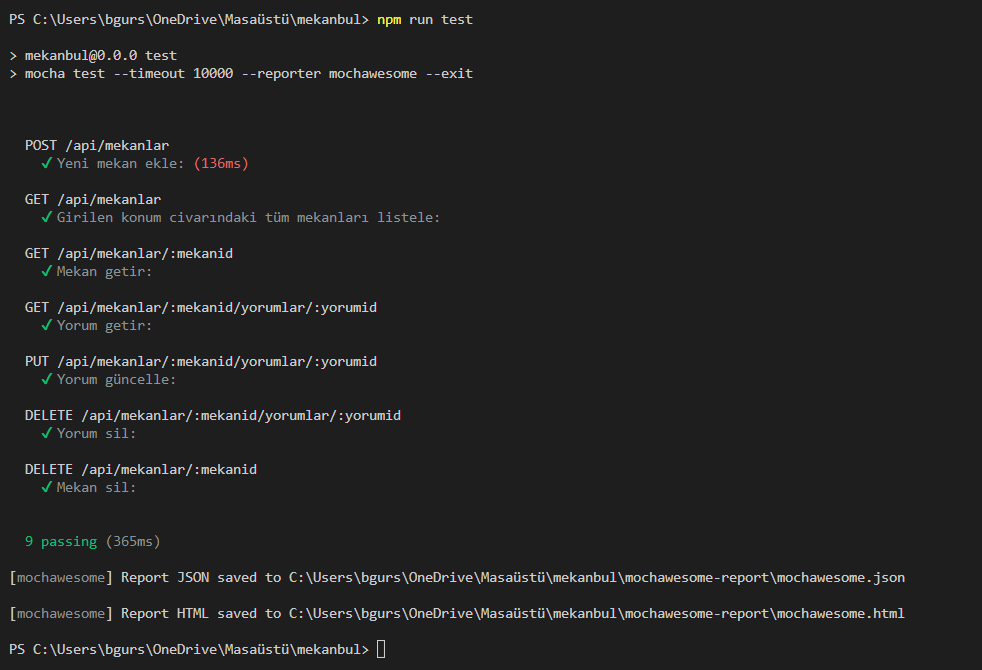
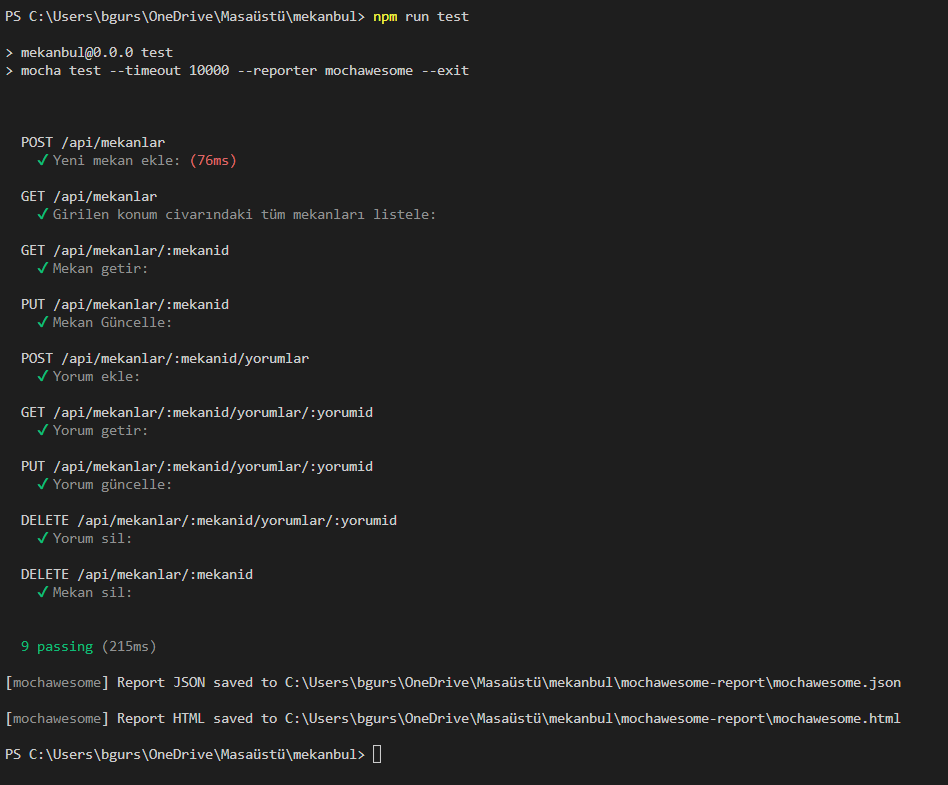
Odev6 upload

diff --git a/mochawesome-report/mochawesome.html b/mochawesome-report/mochawesome.html
@@ -1,2 +1,2 @@
 <!doctype html>
-<html lang="en"><head><meta charSet="utf-8"/><meta http-equiv="X-UA-Compatible" content="IE=edge"/><meta name="viewport" content="width=device-width, initial-scale=1"/><title>Mochawesome Report</title><link rel="stylesheet" href="assets\app.css"/></head><body data-raw="{&quot;stats&quot;:{&quot;suites&quot;:9,&quot;tests&quot;:9,&quot;passes&quot;:9,&quot;pending&quot;:0,&quot;failures&quot;:0,&quot;start&quot;:&quot;2022-11-28T18:46:28.797Z&quot;,&quot;end&quot;:&quot;2022-11-28T18:46:29.162Z&quot;,&quot;duration&quot;:365,&quot;testsRegistered&quot;:9,&quot;passPercent&quot;:100,&quot;pendingPercent&quot;:0,&quot;other&quot;:0,&quot;hasOther&quot;:false,&quot;skipped&quot;:0,&quot;hasSkipped&quot;:false},&quot;results&quot;:[{&quot;uuid&quot;:&quot;9c316d14-0968-40b0-8b06-5e3f54011b4d&quot;,&quot;title&quot;:&quot;&quot;,&quot;fullFile&quot;:&quot;&quot;,&quot;file&quot;:&quot;&quot;,&quot;beforeHooks&quot;:[],&quot;afterHooks&quot;:[{&quot;title&quot;:&quot;\&quot;after all\&quot; hook in \&quot;{root}\&quot;&quot;,&quot;fullTitle&quot;:&quot;\&quot;after all\&quot; hook in \&quot;{root}\&quot;&quot;,&quot;timedOut&quot;:false,&quot;duration&quot;:0,&quot;pass&quot;:false,&quot;fail&quot;:false,&quot;pending&quot;:false,&quot;code&quot;:&quot;done();&quot;,&quot;err&quot;:{},&quot;uuid&quot;:&quot;1f1d864e-ea0e-4a6a-ae7d-3a43d5c8c072&quot;,&quot;parentUUID&quot;:&quot;9c316d14-0968-40b0-8b06-5e3f54011b4d&quot;,&quot;isHook&quot;:true,&quot;skipped&quot;:false}],&quot;tests&quot;:[],&quot;suites&quot;:[{&quot;uuid&quot;:&quot;73669246-7c2a-456f-99f5-73e07eacd1d4&quot;,&quot;title&quot;:&quot;POST /api/mekanlar&quot;,&quot;fullFile&quot;:&quot;C:\\Users\\bgurs\\OneDrive\\Masaüstü\\mekanbul\\test.js&quot;,&quot;file&quot;:&quot;\\test.js&quot;,&quot;beforeHooks&quot;:[],&quot;afterHooks&quot;:[],&quot;tests&quot;:[{&quot;title&quot;:&quot;Yeni mekan ekle:&quot;,&quot;fullTitle&quot;:&quot;POST /api/mekanlar Yeni mekan ekle:&quot;,&quot;timedOut&quot;:false,&quot;duration&quot;:136,&quot;state&quot;:&quot;passed&quot;,&quot;speed&quot;:&quot;slow&quot;,&quot;pass&quot;:true,&quot;fail&quot;:false,&quot;pending&quot;:false,&quot;code&quot;:&quot;const response = await request.post(\&quot;/api/mekanlar\&quot;).send({\n  ad: \&quot;Starbucks\&quot;,\n  adres: \&quot;Centrum Garden\&quot;,\n  puan: 5,\n  imkanlar: \&quot;çay,kahve,pasta\&quot;,\n  enlem: 37.83226584629666,\n  boylam: 30.524732239878013,\n  gunler1: \&quot;Pazartesi-Cuma\&quot;,\n  acilis1: \&quot;9:00\&quot;,\n  kapanis1: \&quot;23:00\&quot;,\n  kapali1: false,\n  gunler2: \&quot;Cumartesi-Pazar\&quot;,\n  acilis2: \&quot;11:00\&quot;,\n  kapanis2: \&quot;17:00\&quot;,\n  kapali2: false,\n});\nexpect(response.status).to.eql(201);\nprocess.env.mekanid = response.body._id;&quot;,&quot;err&quot;:{},&quot;uuid&quot;:&quot;11d24a6d-c239-4131-b84e-98ea9aa9cdfe&quot;,&quot;parentUUID&quot;:&quot;73669246-7c2a-456f-99f5-73e07eacd1d4&quot;,&quot;isHook&quot;:false,&quot;skipped&quot;:false}],&quot;suites&quot;:[],&quot;passes&quot;:[&quot;11d24a6d-c239-4131-b84e-98ea9aa9cdfe&quot;],&quot;failures&quot;:[],&quot;pending&quot;:[],&quot;skipped&quot;:[],&quot;duration&quot;:136,&quot;root&quot;:false,&quot;rootEmpty&quot;:false,&quot;_timeout&quot;:10000},{&quot;uuid&quot;:&quot;b8d7a778-96aa-4b22-9eff-26448bab2182&quot;,&quot;title&quot;:&quot;GET /api/mekanlar&quot;,&quot;fullFile&quot;:&quot;C:\\Users\\bgurs\\OneDrive\\Masaüstü\\mekanbul\\test.js&quot;,&quot;file&quot;:&quot;\\test.js&quot;,&quot;beforeHooks&quot;:[],&quot;afterHooks&quot;:[],&quot;tests&quot;:[{&quot;title&quot;:&quot;Girilen konum civarındaki tüm mekanları listele:&quot;,&quot;fullTitle&quot;:&quot;GET /api/mekanlar Girilen konum civarındaki tüm mekanları listele:&quot;,&quot;timedOut&quot;:false,&quot;duration&quot;:35,&quot;state&quot;:&quot;passed&quot;,&quot;speed&quot;:&quot;fast&quot;,&quot;pass&quot;:true,&quot;fail&quot;:false,&quot;pending&quot;:false,&quot;code&quot;:&quot;const response = await request.get(\&quot;/api/mekanlar?enlem=37&amp;boylam=35\&quot;);\nexpect(response.status).to.eql(200);&quot;,&quot;err&quot;:{},&quot;uuid&quot;:&quot;68129228-0611-4448-ae4b-4060a3d1d1e3&quot;,&quot;parentUUID&quot;:&quot;b8d7a778-96aa-4b22-9eff-26448bab2182&quot;,&quot;isHook&quot;:false,&quot;skipped&quot;:false}],&quot;suites&quot;:[],&quot;passes&quot;:[&quot;68129228-0611-4448-ae4b-4060a3d1d1e3&quot;],&quot;failures&quot;:[],&quot;pending&quot;:[],&quot;skipped&quot;:[],&quot;duration&quot;:35,&quot;root&quot;:false,&quot;rootEmpty&quot;:false,&quot;_timeout&quot;:10000},{&quot;uuid&quot;:&quot;ca60ced1-6ce5-40bc-8d88-7761a235b4c5&quot;,&quot;title&quot;:&quot;GET /api/mekanlar/:mekanid&quot;,&quot;fullFile&quot;:&quot;C:\\Users\\bgurs\\OneDrive\\Masaüstü\\mekanbul\\test.js&quot;,&quot;file&quot;:&quot;\\test.js&quot;,&quot;beforeHooks&quot;:[],&quot;afterHooks&quot;:[],&quot;tests&quot;:[{&quot;title&quot;:&quot;Mekan getir:&quot;,&quot;fullTitle&quot;:&quot;GET /api/mekanlar/:mekanid Mekan getir:&quot;,&quot;timedOut&quot;:false,&quot;duration&quot;:31,&quot;state&quot;:&quot;passed&quot;,&quot;speed&quot;:&quot;fast&quot;,&quot;pass&quot;:true,&quot;fail&quot;:false,&quot;pending&quot;:false,&quot;code&quot;:&quot;const response = await request.get(`/api/mekanlar/${process.env.mekanid}`);\nexpect(response.status).to.eql(200);&quot;,&quot;err&quot;:{},&quot;uuid&quot;:&quot;c84e2849-193d-46e5-b410-8fe94257a74c&quot;,&quot;parentUUID&quot;:&quot;ca60ced1-6ce5-40bc-8d88-7761a235b4c5&quot;,&quot;isHook&quot;:false,&quot;skipped&quot;:false}],&quot;suites&quot;:[],&quot;passes&quot;:[&quot;c84e2849-193d-46e5-b410-8fe94257a74c&quot;],&quot;failures&quot;:[],&quot;pending&quot;:[],&quot;skipped&quot;:[],&quot;duration&quot;:31,&quot;root&quot;:false,&quot;rootEmpty&quot;:false,&quot;_timeout&quot;:10000},{&quot;uuid&quot;:&quot;8b35a9df-3c4d-45de-9cb1-4514f3db93f2&quot;,&quot;title&quot;:&quot;PUT /api/mekanlar/:mekanid&quot;,&quot;fullFile&quot;:&quot;C:\\Users\\bgurs\\OneDrive\\Masaüstü\\mekanbul\\test.js&quot;,&quot;file&quot;:&quot;\\test.js&quot;,&quot;beforeHooks&quot;:[],&quot;afterHooks&quot;:[],&quot;tests&quot;:[{&quot;title&quot;:&quot;Mekan Güncelle:&quot;,&quot;fullTitle&quot;:&quot;PUT /api/mekanlar/:mekanid Mekan Güncelle:&quot;,&quot;timedOut&quot;:false,&quot;duration&quot;:37,&quot;state&quot;:&quot;passed&quot;,&quot;speed&quot;:&quot;fast&quot;,&quot;pass&quot;:true,&quot;fail&quot;:false,&quot;pending&quot;:false,&quot;code&quot;:&quot;const response = await request\n  .put(`/api/mekanlar/${process.env.mekanid}`)\n  .send({\n    ad: \&quot;Starbucks SDÜ\&quot;,\n    adres: \&quot;SDÜ Doğu Kampüsü\&quot;,\n    puan: 3,\n    imkanlar: \&quot;çay,kahve,pasta,refresher\&quot;,\n    enlem: 37.8,\n    boylam: 30.5,\n    gunler1: \&quot;Pazartesi-Cuma\&quot;,\n    acilis1: \&quot;9:10\&quot;,\n    kapanis1: \&quot;23:10\&quot;,\n    kapali1: true,\n    gunler2: \&quot;Cumartesi-Pazar\&quot;,\n    acilis2: \&quot;11:10\&quot;,\n    kapanis2: \&quot;17:10\&quot;,\n    kapali2: true,\n  });\nexpect(response.status).to.eql(200);&quot;,&quot;err&quot;:{},&quot;uuid&quot;:&quot;efe636c2-c523-4474-a659-342e63d0709d&quot;,&quot;parentUUID&quot;:&quot;8b35a9df-3c4d-45de-9cb1-4514f3db93f2&quot;,&quot;isHook&quot;:false,&quot;skipped&quot;:false}],&quot;suites&quot;:[],&quot;passes&quot;:[&quot;efe636c2-c523-4474-a659-342e63d0709d&quot;],&quot;failures&quot;:[],&quot;pending&quot;:[],&quot;skipped&quot;:[],&quot;duration&quot;:37,&quot;root&quot;:false,&quot;rootEmpty&quot;:false,&quot;_timeout&quot;:10000},{&quot;uuid&quot;:&quot;15308f13-2b12-44a1-be45-ca8c62091ae8&quot;,&quot;title&quot;:&quot;POST /api/mekanlar/:mekanid/yorumlar&quot;,&quot;fullFile&quot;:&quot;C:\\Users\\bgurs\\OneDrive\\Masaüstü\\mekanbul\\test.js&quot;,&quot;file&quot;:&quot;\\test.js&quot;,&quot;beforeHooks&quot;:[],&quot;afterHooks&quot;:[],&quot;tests&quot;:[{&quot;title&quot;:&quot;Yorum ekle:&quot;,&quot;fullTitle&quot;:&quot;POST /api/mekanlar/:mekanid/yorumlar Yorum ekle:&quot;,&quot;timedOut&quot;:false,&quot;duration&quot;:19,&quot;state&quot;:&quot;passed&quot;,&quot;speed&quot;:&quot;fast&quot;,&quot;pass&quot;:true,&quot;fail&quot;:false,&quot;pending&quot;:false,&quot;code&quot;:&quot;const response = await request\n  .post(`/api/mekanlar/${process.env.mekanid}/yorumlar`)\n  .send({\n    yorumYapan: \&quot;ASY\&quot;,\n    puan: 5,\n    yorumMetni: \&quot;Kahveler harika\&quot;,\n  });\nprocess.env.yorumid = response.body._id;\nexpect(response.status).to.eql(201);&quot;,&quot;err&quot;:{},&quot;uuid&quot;:&quot;f4b21e41-cd90-4620-ac99-ab586474c3cd&quot;,&quot;parentUUID&quot;:&quot;15308f13-2b12-44a1-be45-ca8c62091ae8&quot;,&quot;isHook&quot;:false,&quot;skipped&quot;:false}],&quot;suites&quot;:[],&quot;passes&quot;:[&quot;f4b21e41-cd90-4620-ac99-ab586474c3cd&quot;],&quot;failures&quot;:[],&quot;pending&quot;:[],&quot;skipped&quot;:[],&quot;duration&quot;:19,&quot;root&quot;:false,&quot;rootEmpty&quot;:false,&quot;_timeout&quot;:10000},{&quot;uuid&quot;:&quot;fdc0cab8-bec9-43ce-90d7-ab014f3cffba&quot;,&quot;title&quot;:&quot;GET /api/mekanlar/:mekanid/yorumlar/:yorumid&quot;,&quot;fullFile&quot;:&quot;C:\\Users\\bgurs\\OneDrive\\Masaüstü\\mekanbul\\test.js&quot;,&quot;file&quot;:&quot;\\test.js&quot;,&quot;beforeHooks&quot;:[],&quot;afterHooks&quot;:[],&quot;tests&quot;:[{&quot;title&quot;:&quot;Yorum getir:&quot;,&quot;fullTitle&quot;:&quot;GET /api/mekanlar/:mekanid/yorumlar/:yorumid Yorum getir:&quot;,&quot;timedOut&quot;:false,&quot;duration&quot;:20,&quot;state&quot;:&quot;passed&quot;,&quot;speed&quot;:&quot;fast&quot;,&quot;pass&quot;:true,&quot;fail&quot;:false,&quot;pending&quot;:false,&quot;code&quot;:&quot;const response = await request.get(\n  `/api/mekanlar/${process.env.mekanid}/yorumlar/${process.env.yorumid}`\n);\nexpect(response.status).to.eql(200);&quot;,&quot;err&quot;:{},&quot;uuid&quot;:&quot;0baf081c-6efc-4a0b-bea8-a3ff35ae5dcc&quot;,&quot;parentUUID&quot;:&quot;fdc0cab8-bec9-43ce-90d7-ab014f3cffba&quot;,&quot;isHook&quot;:false,&quot;skipped&quot;:false}],&quot;suites&quot;:[],&quot;passes&quot;:[&quot;0baf081c-6efc-4a0b-bea8-a3ff35ae5dcc&quot;],&quot;failures&quot;:[],&quot;pending&quot;:[],&quot;skipped&quot;:[],&quot;duration&quot;:20,&quot;root&quot;:false,&quot;rootEmpty&quot;:false,&quot;_timeout&quot;:10000},{&quot;uuid&quot;:&quot;3816192d-4ae2-4bdf-ad80-677d169ec73c&quot;,&quot;title&quot;:&quot;PUT /api/mekanlar/:mekanid/yorumlar/:yorumid&quot;,&quot;fullFile&quot;:&quot;C:\\Users\\bgurs\\OneDrive\\Masaüstü\\mekanbul\\test.js&quot;,&quot;file&quot;:&quot;\\test.js&quot;,&quot;beforeHooks&quot;:[],&quot;afterHooks&quot;:[],&quot;tests&quot;:[{&quot;title&quot;:&quot;Yorum güncelle:&quot;,&quot;fullTitle&quot;:&quot;PUT /api/mekanlar/:mekanid/yorumlar/:yorumid Yorum güncelle:&quot;,&quot;timedOut&quot;:false,&quot;duration&quot;:19,&quot;state&quot;:&quot;passed&quot;,&quot;speed&quot;:&quot;fast&quot;,&quot;pass&quot;:true,&quot;fail&quot;:false,&quot;pending&quot;:false,&quot;code&quot;:&quot;const response = await request\n  .put(\n    `/api/mekanlar/${process.env.mekanid}/yorumlar/${process.env.yorumid}`\n  )\n  .send({\n    yorumYapan: \&quot;Sinan\&quot;,\n    puan: 4,\n    yorumMetni: \&quot;Kahveler harikaaaa\&quot;,\n  });\nexpect(response.status).to.eql(200);&quot;,&quot;err&quot;:{},&quot;uuid&quot;:&quot;271ec898-20fb-4421-955a-0cf1324a9a1f&quot;,&quot;parentUUID&quot;:&quot;3816192d-4ae2-4bdf-ad80-677d169ec73c&quot;,&quot;isHook&quot;:false,&quot;skipped&quot;:false}],&quot;suites&quot;:[],&quot;passes&quot;:[&quot;271ec898-20fb-4421-955a-0cf1324a9a1f&quot;],&quot;failures&quot;:[],&quot;pending&quot;:[],&quot;skipped&quot;:[],&quot;duration&quot;:19,&quot;root&quot;:false,&quot;rootEmpty&quot;:false,&quot;_timeout&quot;:10000},{&quot;uuid&quot;:&quot;13382637-e755-461f-a707-1d96f67761e6&quot;,&quot;title&quot;:&quot;DELETE /api/mekanlar/:mekanid/yorumlar/:yorumid&quot;,&quot;fullFile&quot;:&quot;C:\\Users\\bgurs\\OneDrive\\Masaüstü\\mekanbul\\test.js&quot;,&quot;file&quot;:&quot;\\test.js&quot;,&quot;beforeHooks&quot;:[],&quot;afterHooks&quot;:[],&quot;tests&quot;:[{&quot;title&quot;:&quot;Yorum sil:&quot;,&quot;fullTitle&quot;:&quot;DELETE /api/mekanlar/:mekanid/yorumlar/:yorumid Yorum sil:&quot;,&quot;timedOut&quot;:false,&quot;duration&quot;:16,&quot;state&quot;:&quot;passed&quot;,&quot;speed&quot;:&quot;fast&quot;,&quot;pass&quot;:true,&quot;fail&quot;:false,&quot;pending&quot;:false,&quot;code&quot;:&quot;const response = await request.delete(\n  `/api/mekanlar/${process.env.mekanid}/yorumlar/${process.env.yorumid}`\n);\nexpect(response.status).to.eql(200);&quot;,&quot;err&quot;:{},&quot;uuid&quot;:&quot;7b118976-7255-46ef-abc9-b21374d5283a&quot;,&quot;parentUUID&quot;:&quot;13382637-e755-461f-a707-1d96f67761e6&quot;,&quot;isHook&quot;:false,&quot;skipped&quot;:false}],&quot;suites&quot;:[],&quot;passes&quot;:[&quot;7b118976-7255-46ef-abc9-b21374d5283a&quot;],&quot;failures&quot;:[],&quot;pending&quot;:[],&quot;skipped&quot;:[],&quot;duration&quot;:16,&quot;root&quot;:false,&quot;rootEmpty&quot;:false,&quot;_timeout&quot;:10000},{&quot;uuid&quot;:&quot;ed69de4b-f3dc-4761-a1bd-9b17f5c0dd7d&quot;,&quot;title&quot;:&quot;DELETE /api/mekanlar/:mekanid&quot;,&quot;fullFile&quot;:&quot;C:\\Users\\bgurs\\OneDrive\\Masaüstü\\mekanbul\\test.js&quot;,&quot;file&quot;:&quot;\\test.js&quot;,&quot;beforeHooks&quot;:[],&quot;afterHooks&quot;:[],&quot;tests&quot;:[{&quot;title&quot;:&quot;Mekan sil:&quot;,&quot;fullTitle&quot;:&quot;DELETE /api/mekanlar/:mekanid Mekan sil:&quot;,&quot;timedOut&quot;:false,&quot;duration&quot;:14,&quot;state&quot;:&quot;passed&quot;,&quot;speed&quot;:&quot;fast&quot;,&quot;pass&quot;:true,&quot;fail&quot;:false,&quot;pending&quot;:false,&quot;code&quot;:&quot;const response = await request.delete(\n  `/api/mekanlar/${process.env.mekanid}`\n);\nexpect(response.status).to.eql(200);&quot;,&quot;err&quot;:{},&quot;uuid&quot;:&quot;26c40de3-7f43-492b-8e83-6dda8458ba7f&quot;,&quot;parentUUID&quot;:&quot;ed69de4b-f3dc-4761-a1bd-9b17f5c0dd7d&quot;,&quot;isHook&quot;:false,&quot;skipped&quot;:false}],&quot;suites&quot;:[],&quot;passes&quot;:[&quot;26c40de3-7f43-492b-8e83-6dda8458ba7f&quot;],&quot;failures&quot;:[],&quot;pending&quot;:[],&quot;skipped&quot;:[],&quot;duration&quot;:14,&quot;root&quot;:false,&quot;rootEmpty&quot;:false,&quot;_timeout&quot;:10000}],&quot;passes&quot;:[],&quot;failures&quot;:[],&quot;pending&quot;:[],&quot;skipped&quot;:[],&quot;duration&quot;:0,&quot;root&quot;:true,&quot;rootEmpty&quot;:true,&quot;_timeout&quot;:10000}],&quot;meta&quot;:{&quot;mocha&quot;:{&quot;version&quot;:&quot;10.1.0&quot;},&quot;mochawesome&quot;:{&quot;options&quot;:{&quot;quiet&quot;:false,&quot;reportFilename&quot;:&quot;mochawesome&quot;,&quot;saveHtml&quot;:true,&quot;saveJson&quot;:true,&quot;consoleReporter&quot;:&quot;spec&quot;,&quot;useInlineDiffs&quot;:false,&quot;code&quot;:true},&quot;version&quot;:&quot;7.1.3&quot;},&quot;marge&quot;:{&quot;version&quot;:&quot;6.2.0&quot;}}}" data-config="{&quot;reportFilename&quot;:&quot;mochawesome&quot;,&quot;reportDir&quot;:&quot;mochawesome-report&quot;,&quot;reportTitle&quot;:&quot;mekanbul&quot;,&quot;reportPageTitle&quot;:&quot;Mochawesome Report&quot;,&quot;inline&quot;:false,&quot;inlineAssets&quot;:false,&quot;cdn&quot;:false,&quot;charts&quot;:false,&quot;enableCharts&quot;:false,&quot;code&quot;:true,&quot;enableCode&quot;:true,&quot;autoOpen&quot;:false,&quot;overwrite&quot;:true,&quot;timestamp&quot;:false,&quot;ts&quot;:false,&quot;showPassed&quot;:true,&quot;showFailed&quot;:true,&quot;showPending&quot;:true,&quot;showSkipped&quot;:false,&quot;showHooks&quot;:&quot;failed&quot;,&quot;saveJson&quot;:true,&quot;saveHtml&quot;:true,&quot;dev&quot;:false,&quot;assetsDir&quot;:&quot;mochawesome-report\\assets&quot;,&quot;jsonFile&quot;:&quot;C:\\Users\\bgurs\\OneDrive\\Masaüstü\\mekanbul\\mochawesome-report\\mochawesome.json&quot;,&quot;htmlFile&quot;:&quot;C:\\Users\\bgurs\\OneDrive\\Masaüstü\\mekanbul\\mochawesome-report\\mochawesome.html&quot;}"><div id="report"></div><script src="assets\app.js"></script></body></html>
+<html lang="en"><head><meta charSet="utf-8"/><meta http-equiv="X-UA-Compatible" content="IE=edge"/><meta name="viewport" content="width=device-width, initial-scale=1"/><title>Mochawesome Report</title><link rel="stylesheet" href="assets\app.css"/></head><body data-raw="{&quot;stats&quot;:{&quot;suites&quot;:9,&quot;tests&quot;:9,&quot;passes&quot;:9,&quot;pending&quot;:0,&quot;failures&quot;:0,&quot;start&quot;:&quot;2022-11-28T19:14:38.872Z&quot;,&quot;end&quot;:&quot;2022-11-28T19:14:39.087Z&quot;,&quot;duration&quot;:215,&quot;testsRegistered&quot;:9,&quot;passPercent&quot;:100,&quot;pendingPercent&quot;:0,&quot;other&quot;:0,&quot;hasOther&quot;:false,&quot;skipped&quot;:0,&quot;hasSkipped&quot;:false},&quot;results&quot;:[{&quot;uuid&quot;:&quot;dcd55b17-9260-44e6-b24d-af8d7d4f350b&quot;,&quot;title&quot;:&quot;&quot;,&quot;fullFile&quot;:&quot;&quot;,&quot;file&quot;:&quot;&quot;,&quot;beforeHooks&quot;:[],&quot;afterHooks&quot;:[{&quot;title&quot;:&quot;\&quot;after all\&quot; hook in \&quot;{root}\&quot;&quot;,&quot;fullTitle&quot;:&quot;\&quot;after all\&quot; hook in \&quot;{root}\&quot;&quot;,&quot;timedOut&quot;:false,&quot;duration&quot;:2,&quot;pass&quot;:false,&quot;fail&quot;:false,&quot;pending&quot;:false,&quot;code&quot;:&quot;done();&quot;,&quot;err&quot;:{},&quot;uuid&quot;:&quot;8f8edbc6-d1a5-4759-86e1-053af72ca48c&quot;,&quot;parentUUID&quot;:&quot;dcd55b17-9260-44e6-b24d-af8d7d4f350b&quot;,&quot;isHook&quot;:true,&quot;skipped&quot;:false}],&quot;tests&quot;:[],&quot;suites&quot;:[{&quot;uuid&quot;:&quot;1808e50b-9a80-4bac-ab30-2b99ced07c2b&quot;,&quot;title&quot;:&quot;POST /api/mekanlar&quot;,&quot;fullFile&quot;:&quot;C:\\Users\\bgurs\\OneDrive\\Masaüstü\\mekanbul\\test.js&quot;,&quot;file&quot;:&quot;\\test.js&quot;,&quot;beforeHooks&quot;:[],&quot;afterHooks&quot;:[],&quot;tests&quot;:[{&quot;title&quot;:&quot;Yeni mekan ekle:&quot;,&quot;fullTitle&quot;:&quot;POST /api/mekanlar Yeni mekan ekle:&quot;,&quot;timedOut&quot;:false,&quot;duration&quot;:76,&quot;state&quot;:&quot;passed&quot;,&quot;speed&quot;:&quot;slow&quot;,&quot;pass&quot;:true,&quot;fail&quot;:false,&quot;pending&quot;:false,&quot;code&quot;:&quot;const response = await request.post(\&quot;/api/mekanlar\&quot;).send({\n  ad: \&quot;Starbucks\&quot;,\n  adres: \&quot;Centrum Garden\&quot;,\n  puan: 5,\n  imkanlar: \&quot;çay,kahve,pasta\&quot;,\n  enlem: 37.83226584629666,\n  boylam: 30.524732239878013,\n  gunler1: \&quot;Pazartesi-Cuma\&quot;,\n  acilis1: \&quot;9:00\&quot;,\n  kapanis1: \&quot;23:00\&quot;,\n  kapali1: false,\n  gunler2: \&quot;Cumartesi-Pazar\&quot;,\n  acilis2: \&quot;11:00\&quot;,\n  kapanis2: \&quot;17:00\&quot;,\n  kapali2: false,\n});\nexpect(response.status).to.eql(201);\nprocess.env.mekanid = response.body._id;&quot;,&quot;err&quot;:{},&quot;uuid&quot;:&quot;f4a91fcb-6753-44be-a301-68c79668a3d7&quot;,&quot;parentUUID&quot;:&quot;1808e50b-9a80-4bac-ab30-2b99ced07c2b&quot;,&quot;isHook&quot;:false,&quot;skipped&quot;:false}],&quot;suites&quot;:[],&quot;passes&quot;:[&quot;f4a91fcb-6753-44be-a301-68c79668a3d7&quot;],&quot;failures&quot;:[],&quot;pending&quot;:[],&quot;skipped&quot;:[],&quot;duration&quot;:76,&quot;root&quot;:false,&quot;rootEmpty&quot;:false,&quot;_timeout&quot;:10000},{&quot;uuid&quot;:&quot;fdbf2aff-83ab-45a2-92df-b209ef80b4a3&quot;,&quot;title&quot;:&quot;GET /api/mekanlar&quot;,&quot;fullFile&quot;:&quot;C:\\Users\\bgurs\\OneDrive\\Masaüstü\\mekanbul\\test.js&quot;,&quot;file&quot;:&quot;\\test.js&quot;,&quot;beforeHooks&quot;:[],&quot;afterHooks&quot;:[],&quot;tests&quot;:[{&quot;title&quot;:&quot;Girilen konum civarındaki tüm mekanları listele:&quot;,&quot;fullTitle&quot;:&quot;GET /api/mekanlar Girilen konum civarındaki tüm mekanları listele:&quot;,&quot;timedOut&quot;:false,&quot;duration&quot;:17,&quot;state&quot;:&quot;passed&quot;,&quot;speed&quot;:&quot;fast&quot;,&quot;pass&quot;:true,&quot;fail&quot;:false,&quot;pending&quot;:false,&quot;code&quot;:&quot;const response = await request.get(\&quot;/api/mekanlar?enlem=37&amp;boylam=35\&quot;);\nexpect(response.status).to.eql(200);&quot;,&quot;err&quot;:{},&quot;uuid&quot;:&quot;562fc627-d233-4b6b-ab57-824b3768c499&quot;,&quot;parentUUID&quot;:&quot;fdbf2aff-83ab-45a2-92df-b209ef80b4a3&quot;,&quot;isHook&quot;:false,&quot;skipped&quot;:false}],&quot;suites&quot;:[],&quot;passes&quot;:[&quot;562fc627-d233-4b6b-ab57-824b3768c499&quot;],&quot;failures&quot;:[],&quot;pending&quot;:[],&quot;skipped&quot;:[],&quot;duration&quot;:17,&quot;root&quot;:false,&quot;rootEmpty&quot;:false,&quot;_timeout&quot;:10000},{&quot;uuid&quot;:&quot;7a00a49d-7655-4995-9214-e078efb89f99&quot;,&quot;title&quot;:&quot;GET /api/mekanlar/:mekanid&quot;,&quot;fullFile&quot;:&quot;C:\\Users\\bgurs\\OneDrive\\Masaüstü\\mekanbul\\test.js&quot;,&quot;file&quot;:&quot;\\test.js&quot;,&quot;beforeHooks&quot;:[],&quot;afterHooks&quot;:[],&quot;tests&quot;:[{&quot;title&quot;:&quot;Mekan getir:&quot;,&quot;fullTitle&quot;:&quot;GET /api/mekanlar/:mekanid Mekan getir:&quot;,&quot;timedOut&quot;:false,&quot;duration&quot;:10,&quot;state&quot;:&quot;passed&quot;,&quot;speed&quot;:&quot;fast&quot;,&quot;pass&quot;:true,&quot;fail&quot;:false,&quot;pending&quot;:false,&quot;code&quot;:&quot;const response = await request.get(`/api/mekanlar/${process.env.mekanid}`);\nexpect(response.status).to.eql(200);&quot;,&quot;err&quot;:{},&quot;uuid&quot;:&quot;9b3245fc-f14d-4019-9415-2d9c3cad8490&quot;,&quot;parentUUID&quot;:&quot;7a00a49d-7655-4995-9214-e078efb89f99&quot;,&quot;isHook&quot;:false,&quot;skipped&quot;:false}],&quot;suites&quot;:[],&quot;passes&quot;:[&quot;9b3245fc-f14d-4019-9415-2d9c3cad8490&quot;],&quot;failures&quot;:[],&quot;pending&quot;:[],&quot;skipped&quot;:[],&quot;duration&quot;:10,&quot;root&quot;:false,&quot;rootEmpty&quot;:false,&quot;_timeout&quot;:10000},{&quot;uuid&quot;:&quot;7e3a2564-d67b-478b-95ec-34f9b62ef067&quot;,&quot;title&quot;:&quot;PUT /api/mekanlar/:mekanid&quot;,&quot;fullFile&quot;:&quot;C:\\Users\\bgurs\\OneDrive\\Masaüstü\\mekanbul\\test.js&quot;,&quot;file&quot;:&quot;\\test.js&quot;,&quot;beforeHooks&quot;:[],&quot;afterHooks&quot;:[],&quot;tests&quot;:[{&quot;title&quot;:&quot;Mekan Güncelle:&quot;,&quot;fullTitle&quot;:&quot;PUT /api/mekanlar/:mekanid Mekan Güncelle:&quot;,&quot;timedOut&quot;:false,&quot;duration&quot;:16,&quot;state&quot;:&quot;passed&quot;,&quot;speed&quot;:&quot;fast&quot;,&quot;pass&quot;:true,&quot;fail&quot;:false,&quot;pending&quot;:false,&quot;code&quot;:&quot;const response = await request\n  .put(`/api/mekanlar/${process.env.mekanid}`)\n  .send({\n    ad: \&quot;Starbucks SDÜ\&quot;,\n    adres: \&quot;SDÜ Doğu Kampüsü\&quot;,\n    puan: 3,\n    imkanlar: \&quot;çay,kahve,pasta,refresher\&quot;,\n    enlem: 37.8,\n    boylam: 30.5,\n    gunler1: \&quot;Pazartesi-Cuma\&quot;,\n    acilis1: \&quot;9:10\&quot;,\n    kapanis1: \&quot;23:10\&quot;,\n    kapali1: true,\n    gunler2: \&quot;Cumartesi-Pazar\&quot;,\n    acilis2: \&quot;11:10\&quot;,\n    kapanis2: \&quot;17:10\&quot;,\n    kapali2: true,\n  });\nexpect(response.status).to.eql(200);&quot;,&quot;err&quot;:{},&quot;uuid&quot;:&quot;cb65b3dd-ee38-42f3-a854-40ef36d88053&quot;,&quot;parentUUID&quot;:&quot;7e3a2564-d67b-478b-95ec-34f9b62ef067&quot;,&quot;isHook&quot;:false,&quot;skipped&quot;:false}],&quot;suites&quot;:[],&quot;passes&quot;:[&quot;cb65b3dd-ee38-42f3-a854-40ef36d88053&quot;],&quot;failures&quot;:[],&quot;pending&quot;:[],&quot;skipped&quot;:[],&quot;duration&quot;:16,&quot;root&quot;:false,&quot;rootEmpty&quot;:false,&quot;_timeout&quot;:10000},{&quot;uuid&quot;:&quot;fe9ad8c8-0c9a-4516-907b-d5f9507457b0&quot;,&quot;title&quot;:&quot;POST /api/mekanlar/:mekanid/yorumlar&quot;,&quot;fullFile&quot;:&quot;C:\\Users\\bgurs\\OneDrive\\Masaüstü\\mekanbul\\test.js&quot;,&quot;file&quot;:&quot;\\test.js&quot;,&quot;beforeHooks&quot;:[],&quot;afterHooks&quot;:[],&quot;tests&quot;:[{&quot;title&quot;:&quot;Yorum ekle:&quot;,&quot;fullTitle&quot;:&quot;POST /api/mekanlar/:mekanid/yorumlar Yorum ekle:&quot;,&quot;timedOut&quot;:false,&quot;duration&quot;:16,&quot;state&quot;:&quot;passed&quot;,&quot;speed&quot;:&quot;fast&quot;,&quot;pass&quot;:true,&quot;fail&quot;:false,&quot;pending&quot;:false,&quot;code&quot;:&quot;const response = await request\n  .post(`/api/mekanlar/${process.env.mekanid}/yorumlar`)\n  .send({\n    yorumYapan: \&quot;ASY\&quot;,\n    puan: 5,\n    yorumMetni: \&quot;Kahveler harika\&quot;,\n  });\nprocess.env.yorumid = response.body._id;\nexpect(response.status).to.eql(201);&quot;,&quot;err&quot;:{},&quot;uuid&quot;:&quot;d6a3e733-308b-4317-b4c9-251bb8d134cf&quot;,&quot;parentUUID&quot;:&quot;fe9ad8c8-0c9a-4516-907b-d5f9507457b0&quot;,&quot;isHook&quot;:false,&quot;skipped&quot;:false}],&quot;suites&quot;:[],&quot;passes&quot;:[&quot;d6a3e733-308b-4317-b4c9-251bb8d134cf&quot;],&quot;failures&quot;:[],&quot;pending&quot;:[],&quot;skipped&quot;:[],&quot;duration&quot;:16,&quot;root&quot;:false,&quot;rootEmpty&quot;:false,&quot;_timeout&quot;:10000},{&quot;uuid&quot;:&quot;1533f870-5a0b-4655-88b6-8e9cf888647e&quot;,&quot;title&quot;:&quot;GET /api/mekanlar/:mekanid/yorumlar/:yorumid&quot;,&quot;fullFile&quot;:&quot;C:\\Users\\bgurs\\OneDrive\\Masaüstü\\mekanbul\\test.js&quot;,&quot;file&quot;:&quot;\\test.js&quot;,&quot;beforeHooks&quot;:[],&quot;afterHooks&quot;:[],&quot;tests&quot;:[{&quot;title&quot;:&quot;Yorum getir:&quot;,&quot;fullTitle&quot;:&quot;GET /api/mekanlar/:mekanid/yorumlar/:yorumid Yorum getir:&quot;,&quot;timedOut&quot;:false,&quot;duration&quot;:12,&quot;state&quot;:&quot;passed&quot;,&quot;speed&quot;:&quot;fast&quot;,&quot;pass&quot;:true,&quot;fail&quot;:false,&quot;pending&quot;:false,&quot;code&quot;:&quot;const response = await request.get(\n  `/api/mekanlar/${process.env.mekanid}/yorumlar/${process.env.yorumid}`\n);\nexpect(response.status).to.eql(200);&quot;,&quot;err&quot;:{},&quot;uuid&quot;:&quot;e9bf0202-2182-42b2-9eed-25f7220768a5&quot;,&quot;parentUUID&quot;:&quot;1533f870-5a0b-4655-88b6-8e9cf888647e&quot;,&quot;isHook&quot;:false,&quot;skipped&quot;:false}],&quot;suites&quot;:[],&quot;passes&quot;:[&quot;e9bf0202-2182-42b2-9eed-25f7220768a5&quot;],&quot;failures&quot;:[],&quot;pending&quot;:[],&quot;skipped&quot;:[],&quot;duration&quot;:12,&quot;root&quot;:false,&quot;rootEmpty&quot;:false,&quot;_timeout&quot;:10000},{&quot;uuid&quot;:&quot;18b235f9-d35b-4da1-a0b4-0f34ac448642&quot;,&quot;title&quot;:&quot;PUT /api/mekanlar/:mekanid/yorumlar/:yorumid&quot;,&quot;fullFile&quot;:&quot;C:\\Users\\bgurs\\OneDrive\\Masaüstü\\mekanbul\\test.js&quot;,&quot;file&quot;:&quot;\\test.js&quot;,&quot;beforeHooks&quot;:[],&quot;afterHooks&quot;:[],&quot;tests&quot;:[{&quot;title&quot;:&quot;Yorum güncelle:&quot;,&quot;fullTitle&quot;:&quot;PUT /api/mekanlar/:mekanid/yorumlar/:yorumid Yorum güncelle:&quot;,&quot;timedOut&quot;:false,&quot;duration&quot;:15,&quot;state&quot;:&quot;passed&quot;,&quot;speed&quot;:&quot;fast&quot;,&quot;pass&quot;:true,&quot;fail&quot;:false,&quot;pending&quot;:false,&quot;code&quot;:&quot;const response = await request\n  .put(\n    `/api/mekanlar/${process.env.mekanid}/yorumlar/${process.env.yorumid}`\n  )\n  .send({\n    yorumYapan: \&quot;Sinan\&quot;,\n    puan: 4,\n    yorumMetni: \&quot;Kahveler harikaaaa\&quot;,\n  });\nexpect(response.status).to.eql(200);&quot;,&quot;err&quot;:{},&quot;uuid&quot;:&quot;c1c71caf-f93b-434a-89d1-39e9be88e54f&quot;,&quot;parentUUID&quot;:&quot;18b235f9-d35b-4da1-a0b4-0f34ac448642&quot;,&quot;isHook&quot;:false,&quot;skipped&quot;:false}],&quot;suites&quot;:[],&quot;passes&quot;:[&quot;c1c71caf-f93b-434a-89d1-39e9be88e54f&quot;],&quot;failures&quot;:[],&quot;pending&quot;:[],&quot;skipped&quot;:[],&quot;duration&quot;:15,&quot;root&quot;:false,&quot;rootEmpty&quot;:false,&quot;_timeout&quot;:10000},{&quot;uuid&quot;:&quot;e32ba557-9d03-4648-8127-ae70dbbabb37&quot;,&quot;title&quot;:&quot;DELETE /api/mekanlar/:mekanid/yorumlar/:yorumid&quot;,&quot;fullFile&quot;:&quot;C:\\Users\\bgurs\\OneDrive\\Masaüstü\\mekanbul\\test.js&quot;,&quot;file&quot;:&quot;\\test.js&quot;,&quot;beforeHooks&quot;:[],&quot;afterHooks&quot;:[],&quot;tests&quot;:[{&quot;title&quot;:&quot;Yorum sil:&quot;,&quot;fullTitle&quot;:&quot;DELETE /api/mekanlar/:mekanid/yorumlar/:yorumid Yorum sil:&quot;,&quot;timedOut&quot;:false,&quot;duration&quot;:16,&quot;state&quot;:&quot;passed&quot;,&quot;speed&quot;:&quot;fast&quot;,&quot;pass&quot;:true,&quot;fail&quot;:false,&quot;pending&quot;:false,&quot;code&quot;:&quot;const response = await request.delete(\n  `/api/mekanlar/${process.env.mekanid}/yorumlar/${process.env.yorumid}`\n);\nexpect(response.status).to.eql(200);&quot;,&quot;err&quot;:{},&quot;uuid&quot;:&quot;c069198e-c017-4f10-91da-9bf3cd891b22&quot;,&quot;parentUUID&quot;:&quot;e32ba557-9d03-4648-8127-ae70dbbabb37&quot;,&quot;isHook&quot;:false,&quot;skipped&quot;:false}],&quot;suites&quot;:[],&quot;passes&quot;:[&quot;c069198e-c017-4f10-91da-9bf3cd891b22&quot;],&quot;failures&quot;:[],&quot;pending&quot;:[],&quot;skipped&quot;:[],&quot;duration&quot;:16,&quot;root&quot;:false,&quot;rootEmpty&quot;:false,&quot;_timeout&quot;:10000},{&quot;uuid&quot;:&quot;20507402-8abe-41e3-a1ac-ce6cd68120d9&quot;,&quot;title&quot;:&quot;DELETE /api/mekanlar/:mekanid&quot;,&quot;fullFile&quot;:&quot;C:\\Users\\bgurs\\OneDrive\\Masaüstü\\mekanbul\\test.js&quot;,&quot;file&quot;:&quot;\\test.js&quot;,&quot;beforeHooks&quot;:[],&quot;afterHooks&quot;:[],&quot;tests&quot;:[{&quot;title&quot;:&quot;Mekan sil:&quot;,&quot;fullTitle&quot;:&quot;DELETE /api/mekanlar/:mekanid Mekan sil:&quot;,&quot;timedOut&quot;:false,&quot;duration&quot;:7,&quot;state&quot;:&quot;passed&quot;,&quot;speed&quot;:&quot;fast&quot;,&quot;pass&quot;:true,&quot;fail&quot;:false,&quot;pending&quot;:false,&quot;code&quot;:&quot;const response = await request.delete(\n  `/api/mekanlar/${process.env.mekanid}`\n);\nexpect(response.status).to.eql(200);&quot;,&quot;err&quot;:{},&quot;uuid&quot;:&quot;4ff768da-4317-46cd-89f6-39be41f5f84b&quot;,&quot;parentUUID&quot;:&quot;20507402-8abe-41e3-a1ac-ce6cd68120d9&quot;,&quot;isHook&quot;:false,&quot;skipped&quot;:false}],&quot;suites&quot;:[],&quot;passes&quot;:[&quot;4ff768da-4317-46cd-89f6-39be41f5f84b&quot;],&quot;failures&quot;:[],&quot;pending&quot;:[],&quot;skipped&quot;:[],&quot;duration&quot;:7,&quot;root&quot;:false,&quot;rootEmpty&quot;:false,&quot;_timeout&quot;:10000}],&quot;passes&quot;:[],&quot;failures&quot;:[],&quot;pending&quot;:[],&quot;skipped&quot;:[],&quot;duration&quot;:0,&quot;root&quot;:true,&quot;rootEmpty&quot;:true,&quot;_timeout&quot;:10000}],&quot;meta&quot;:{&quot;mocha&quot;:{&quot;version&quot;:&quot;10.1.0&quot;},&quot;mochawesome&quot;:{&quot;options&quot;:{&quot;quiet&quot;:false,&quot;reportFilename&quot;:&quot;mochawesome&quot;,&quot;saveHtml&quot;:true,&quot;saveJson&quot;:true,&quot;consoleReporter&quot;:&quot;spec&quot;,&quot;useInlineDiffs&quot;:false,&quot;code&quot;:true},&quot;version&quot;:&quot;7.1.3&quot;},&quot;marge&quot;:{&quot;version&quot;:&quot;6.2.0&quot;}}}" data-config="{&quot;reportFilename&quot;:&quot;mochawesome&quot;,&quot;reportDir&quot;:&quot;mochawesome-report&quot;,&quot;reportTitle&quot;:&quot;mekanbul&quot;,&quot;reportPageTitle&quot;:&quot;Mochawesome Report&quot;,&quot;inline&quot;:false,&quot;inlineAssets&quot;:false,&quot;cdn&quot;:false,&quot;charts&quot;:false,&quot;enableCharts&quot;:false,&quot;code&quot;:true,&quot;enableCode&quot;:true,&quot;autoOpen&quot;:false,&quot;overwrite&quot;:true,&quot;timestamp&quot;:false,&quot;ts&quot;:false,&quot;showPassed&quot;:true,&quot;showFailed&quot;:true,&quot;showPending&quot;:true,&quot;showSkipped&quot;:false,&quot;showHooks&quot;:&quot;failed&quot;,&quot;saveJson&quot;:true,&quot;saveHtml&quot;:true,&quot;dev&quot;:false,&quot;assetsDir&quot;:&quot;mochawesome-report\\assets&quot;,&quot;jsonFile&quot;:&quot;C:\\Users\\bgurs\\OneDrive\\Masaüstü\\mekanbul\\mochawesome-report\\mochawesome.json&quot;,&quot;htmlFile&quot;:&quot;C:\\Users\\bgurs\\OneDrive\\Masaüstü\\mekanbul\\mochawesome-report\\mochawesome.html&quot;}"><div id="report"></div><script src="assets\app.js"></script></body></html>
